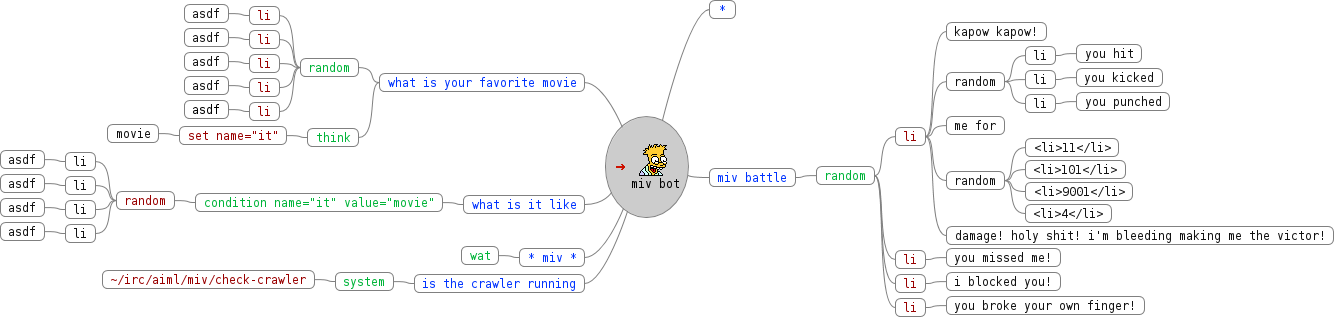
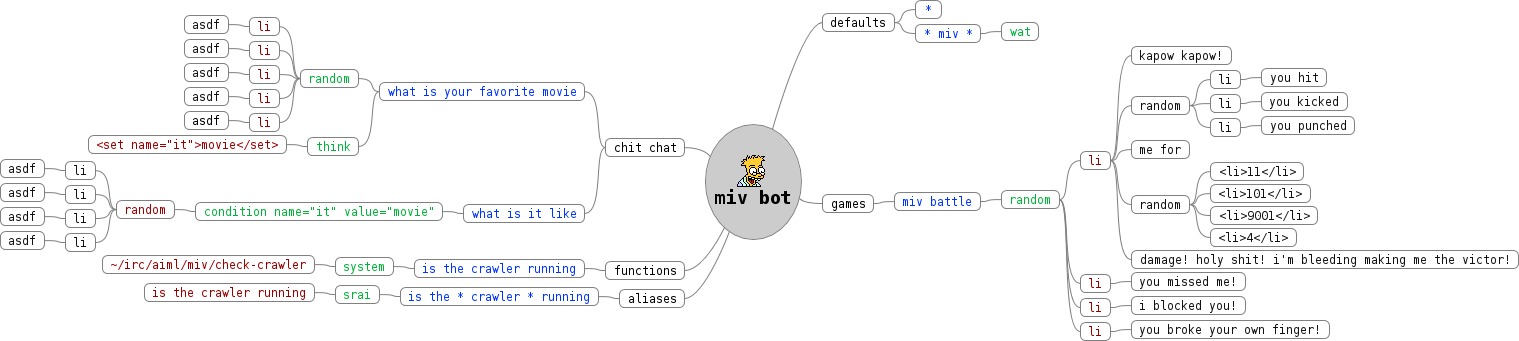
updated to have one extra layer before the patterns for better organization. this could later be used for identifying categories.

Changed region(s): [[0.0, 0.0, 1.0, 1.0], [0.0615, 0.0284, 0.461, 0.4826]]

diff --git a/miv-example.mm b/miv-example.mm
@@ -1,6 +1,6 @@
 <map version="1.0.1">
 <!-- To view this file, download free mind mapping software FreeMind from http://freemind.sourceforge.net -->
-<node BACKGROUND_COLOR="#cccccc" COLOR="#000000" CREATED="1510481958200" ID="ID_1175123910" LINK="../fraxel/characters.mm" MODIFIED="1524161326277" STYLE="bubble">
+<node BACKGROUND_COLOR="#cccccc" COLOR="#000000" CREATED="1510481958200" ID="ID_1175123910" MODIFIED="1524946825403" STYLE="bubble">
 <richcontent TYPE="NODE"><html>
   <head>
     
@@ -11,13 +11,19 @@
       
     </p>
     <p style="text-align: center">
-      miv bot
+      <b><font size="5">miv bot</font></b>
     </p>
   </body>
 </html>
 </richcontent>
-<node COLOR="#0033ff" CREATED="1510486109201" ID="ID_152166414" MODIFIED="1510973395156" POSITION="right" TEXT="*"/>
-<node COLOR="#0033ff" CREATED="1510485017130" ID="ID_700671429" MODIFIED="1510973395157" POSITION="right" TEXT="miv battle">
+<node CREATED="1524946173958" ID="ID_1550752403" MODIFIED="1524946177210" POSITION="right" TEXT="defaults">
+<node COLOR="#0033ff" CREATED="1510486109201" ID="ID_152166414" MODIFIED="1510973395156" TEXT="*"/>
+<node COLOR="#0033ff" CREATED="1510485624271" ID="ID_251550034" MODIFIED="1510974370482" TEXT="* miv *">
+<node COLOR="#00b439" CREATED="1510485633544" ID="ID_452021718" MODIFIED="1510973395177" TEXT="wat"/>
+</node>
+</node>
+<node CREATED="1524946188826" ID="ID_22634558" MODIFIED="1524946190614" POSITION="right" TEXT="games">
+<node COLOR="#0033ff" CREATED="1510485017130" ID="ID_700671429" MODIFIED="1510973395157" TEXT="miv battle">
 <node COLOR="#00b439" CREATED="1510485037245" ID="ID_1228729795" MODIFIED="1510973395157" TEXT="random">
 <node COLOR="#990000" CREATED="1510485040950" ID="ID_311585894" MODIFIED="1510973395157" TEXT="li">
 <node COLOR="#111111" CREATED="1510485040157" ID="ID_697767184" MODIFIED="1510973395157" TEXT="kapow kapow!"/>
@@ -52,7 +58,9 @@
 </node>
 </node>
 </node>
-<node COLOR="#0033ff" CREATED="1510485875093" ID="ID_1704599004" MODIFIED="1510974370415" POSITION="left" TEXT="what is your favorite movie">
+</node>
+<node CREATED="1524946204329" ID="ID_1439207904" MODIFIED="1524946215829" POSITION="left" TEXT="chit chat">
+<node COLOR="#0033ff" CREATED="1510485875093" ID="ID_1704599004" MODIFIED="1510974370415" TEXT="what is your favorite movie">
 <node COLOR="#00b439" CREATED="1510485926453" ID="ID_1475564967" MODIFIED="1510973395162" TEXT="random">
 <node COLOR="#990000" CREATED="1510485928486" ID="ID_579270976" MODIFIED="1510973395162" TEXT="li">
 <node COLOR="#111111" CREATED="1510485941416" ID="ID_1619203676" MODIFIED="1524093976348" TEXT="asdf"/>
@@ -71,12 +79,10 @@
 </node>
 </node>
 <node COLOR="#00b439" CREATED="1510485982662" ID="ID_266102476" MODIFIED="1510973395168" TEXT="think">
-<node COLOR="#990000" CREATED="1510485995352" ID="ID_349089097" MODIFIED="1524150267046" TEXT="set name=&quot;it&quot;">
-<node COLOR="#111111" CREATED="1510485998768" ID="ID_229005376" MODIFIED="1510973395169" TEXT="movie"/>
+<node COLOR="#990000" CREATED="1510485995352" ID="ID_349089097" MODIFIED="1524946273438" TEXT="&lt;set name=&quot;it&quot;&gt;movie&lt;/set&gt;"/>
 </node>
 </node>
-</node>
-<node COLOR="#0033ff" CREATED="1510485653532" ID="ID_1354936412" MODIFIED="1510973395169" POSITION="left" TEXT="what is it like">
+<node COLOR="#0033ff" CREATED="1510485653532" ID="ID_1354936412" MODIFIED="1510973395169" TEXT="what is it like">
 <node COLOR="#00b439" CREATED="1510485670270" ID="ID_1377626901" MODIFIED="1524150326839" TEXT="condition name=&quot;it&quot; value=&quot;movie&quot;">
 <node COLOR="#990000" CREATED="1510485685440" ID="ID_804116141" MODIFIED="1524150341295" TEXT="random">
 <node COLOR="#111111" CREATED="1510485702387" ID="ID_1485022072" MODIFIED="1510973395170" TEXT="li">
@@ -94,23 +100,19 @@
 </node>
 </node>
 </node>
-<node COLOR="#0033ff" CREATED="1510485624271" ID="ID_251550034" MODIFIED="1510974370482" POSITION="left" TEXT="* miv *">
-<node COLOR="#00b439" CREATED="1510485633544" ID="ID_452021718" MODIFIED="1510973395177" TEXT="wat"/>
 </node>
-<node COLOR="#0033ff" CREATED="1510485513478" ID="ID_819412586" MODIFIED="1524161369684" POSITION="left">
-<richcontent TYPE="NODE"><html>
-  <head>
-    
-  </head>
-  <body>
-    <p>
-      is the crawler running
-    </p>
-  </body>
-</html>
-</richcontent>
+<node CREATED="1524946224385" ID="ID_1061999712" MODIFIED="1524946225958" POSITION="left" TEXT="functions">
+<node COLOR="#0033ff" CREATED="1510485513478" ID="ID_819412586" MODIFIED="1524947061116" TEXT="is the crawler running">
 <node COLOR="#00b439" CREATED="1510485537225" ID="ID_275785181" MODIFIED="1510973395178" TEXT="system">
 <node COLOR="#990000" CREATED="1510784757384" ID="ID_248872922" MODIFIED="1510973395178" TEXT="~/irc/aiml/miv/check-crawler"/>
+</node>
+</node>
+</node>
+<node CREATED="1524946363253" ID="ID_1665390871" MODIFIED="1524946365368" POSITION="left" TEXT="aliases">
+<node COLOR="#0033ff" CREATED="1524161753919" ID="ID_1660265644" MODIFIED="1524167044670" TEXT="is the * crawler * running">
+<node COLOR="#00b439" CREATED="1524162062356" ID="ID_1711319307" MODIFIED="1524162318079" TEXT="srai">
+<node COLOR="#990000" CREATED="1524162072037" ID="ID_822263793" MODIFIED="1524162318079" TEXT="is the crawler running"/>
+</node>
 </node>
 </node>
 </node>

diff --git a/main.c b/main.c
@@ -67,11 +67,11 @@ int main(int argc, char *argv[]){
             str_replace(lineBuffer, "&#xa;", "\n");
             str_replace(lineBuffer, "&amp;", "&");
          }
-         if (!singleNodeLine && depth > 1) {
+         if (!singleNodeLine && depth > 2) {
             printf("<%s>\n", lineBuffer);
             depth++;
          }
-         if (!singleNodeLine && depth == 0) {
+         if (!singleNodeLine && depth < 2) {
             depth++; // move from main node
             continue;
          }
@@ -79,16 +79,16 @@ int main(int argc, char *argv[]){
 
       // top of the mind so print it normally
       if (singleNodeLine) {
-         if (depth > 1) printf("%s\n", lineBuffer);
+         if (depth > 2) printf("%s\n", lineBuffer);
       }
 
       // write the closing tag for the closing node
       if (endNode) {
-         if (depth > 2) printf("</%s>\n", tagstack[depth-1]);
+         if (depth > 3) printf("</%s>\n", tagstack[depth-1]);
          depth--;
       }
 
-      if (depth == 1) { // first child nodes
+      if (depth == 2) { // first child nodes
          if (nodeLine) {
 
             // capitalize the pattern
